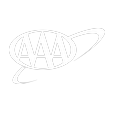
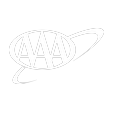
Seamless Figma fade (bg + footer = #F2E4E4), Figma content (no membership barcode, no MOCK), light/dark switch

diff --git a/index.html b/index.html
@@ -1,6 +1,7 @@
 <!doctype html>
 <html lang="en">
 <head>
+<script src="theme.js"></script>
 <script src="gate.js"></script>
 <meta charset="utf-8">
 <meta name="viewport" content="width=device-width,initial-scale=1">
@@ -282,6 +283,67 @@ button,select{font:inherit;color:inherit}
   .inspector{position:fixed;left:16px;right:16px;top:16px;width:auto;max-height:calc(100vh - 32px)}
   .col,.card3d{width:min(300px,calc(100vw - 32px))}
 }
+
+/* LIGHT THEME (generated by gen_light_theme.py) */
+html[data-theme="light"]{color-scheme:light}
+html[data-theme="light"]{--win:#f2f2f7;--side:#ffffff;--side-sel:#0a5fd6;--panel:#ffffff;--panel-2:#f2f2f7;--line:#d1d1d6;--text:#1c1c1e;--muted:#6e6e73;--dim:#8e8e93}
+html[data-theme="light"] .titlebar{border-bottom:1px solid #f2f2f2;background:#f3f3f3}
+html[data-theme="light"] .seg{background:#efefef}
+html[data-theme="light"] .seg button.on{background:#ffffff;color:#000000}
+html[data-theme="light"] .tb-btn{background:#f7f7f7}
+html[data-theme="light"] .platform{background:#efefef}
+html[data-theme="light"] .platform a.on{background:#ffffff;color:#000000}
+html[data-theme="light"] .ro{color:#eeeeee}
+html[data-theme="light"] .sidebar{border-right:1px solid #f2f2f2}
+html[data-theme="light"] .lim-pick{background:#f3f3f3}
+html[data-theme="light"] .lim-pick select{background:#f7f7f7}
+html[data-theme="light"] .item:hover{background:#f9f9f9}
+html[data-theme="light"] .item.sel .ic{color:#000000}
+html[data-theme="light"] .item.leaf{color:#292929}
+html[data-theme="light"] .badge{background:#fdfdfd;color:#2d2d2d}
+html[data-theme="light"] .badge.na{background:#fdfdfd}
+html[data-theme="light"] .picker{background:#eeeeee}
+html[data-theme="light"] .picker button:hover{background:#f4f4f4}
+html[data-theme="light"] .picker .thumb{background:#ffffff center top/cover;box-shadow:0 2px 6px rgba(0,0,0,0.14)}
+html[data-theme="light"] .picker .thumb.blank{background:#fafafa}
+html[data-theme="light"] .tab-x{background:#f7f7f7}
+html[data-theme="light"] .tab-x:hover{color:#000000;background:#ffffff}
+html[data-theme="light"] .dl{color:#000000}
+html[data-theme="light"] .pill{background:#fdfdfd}
+html[data-theme="light"] .act{background:#f6f6f6}
+html[data-theme="light"] .act.link:hover{background:#fcfcfc}
+html[data-theme="light"] .act.empty{border:1px dashed #c6c6c6}
+html[data-theme="light"] .inspector{background:rgba(0,0,0,0.339);border:1px solid #c9c9c9;box-shadow:0 18px 50px rgba(0,0,0,0.233)}
+html[data-theme="light"] .x{background:#ffffff}
+html[data-theme="light"] .kv .val{background:#f3f3f3;color:#242424}
+html[data-theme="light"] .sw{border:1px solid rgba(0,0,0,0.16)}
+html[data-theme="light"] .note{color:#2d2d2d;background:#f4f4f4}
+html[data-theme="light"] .fieldcard{background:#f5f5f5}
+html[data-theme="light"] .atile{background:#f4f4f4}
+html[data-theme="light"] .atile.pick{outline:2px solid rgba(0,0,0,0.24)}
+html[data-theme="light"] .atile .tag{color:#000000}
+html[data-theme="light"] .dd{background:#f3f3f3}
+html[data-theme="light"] .json{background:#ededed}
+html[data-theme="light"] .thumbs img{background:repeating-conic-gradient(#fdfdfd 0 25%,#f6f6f6 0 50%) 0/10px 10px}
+html[data-theme="light"] .proposal{background:#f0f0f0}
+html[data-theme="light"] .proposal-open{color:#000000}
+html[data-theme="light"] .proposal-img img{border:1px solid #dcdcdc}
+html[data-theme="light"] .todo{background:#f0f0f0}
+html[data-theme="light"] .todo h3{color:#000000}
+html[data-theme="light"] .todo p,html[data-theme="light"] .todo li{color:#2d2d2d}
+html[data-theme="light"] .todo .qa b{color:#000000}
+html[data-theme="light"] .todo .qa span{color:#2d2d2d}
+html[data-theme="light"] .proposal figcaption a,html[data-theme="light"] .proposal figcaption button{color:#000000;background:#f7f7f7}
+html[data-theme="light"] #rotateBtn{background:#f7f7f7;color:#000000}
+html[data-theme="light"] #rotateBtn:hover{background:#fcfcfc}
+html[data-theme="light"] .exp-sw{color:#000000}
+html[data-theme="light"] .exp-sw .track{background:#fdfdfd}
+html[data-theme="light"] .exp-sw .track::after{background:#ffffff}
+html[data-theme="light"] #simOpen{color:#000000}
+html[data-theme="light"] .dt-bar{background:#e4e4e4}
+@media (max-width:860px){html[data-theme="light"] .sidebar{border-top:1px solid #f2f2f2}}
+html[data-theme="light"] .picker button.on,html[data-theme="light"] .vmode button.on{background:#e7f0ff;color:#0a3d91}html[data-theme="light"] .picker button.on small{color:#3d5f99}html[data-theme="light"] .exp-sw .track{background:#d1d1d6}
+/* END LIGHT THEME */
 </style>
 </head>
 <body>

diff --git a/theme.js b/theme.js
@@ -1,0 +1,45 @@
+/* Light / dark switch. Follows the system color scheme until the viewer flips the switch;
+   that choice is remembered on this device. Loaded in <head> so the page never flashes the wrong theme. */
+(function(){
+  var KEY = 'aaaViewerTheme', root = document.documentElement, mq = window.matchMedia('(prefers-color-scheme: light)');
+  function saved(){ try { return localStorage.getItem(KEY); } catch(e){ return null; } }
+  function current(){ return saved() || (mq.matches ? 'light' : 'dark'); }
+  var SUN = '<svg viewBox="0 0 24 24" width="15" height="15" aria-hidden="true"><circle cx="12" cy="12" r="4.2" fill="currentColor"/><g stroke="currentColor" stroke-width="2" stroke-linecap="round"><path d="M12 2.5v2.2M12 19.3v2.2M2.5 12h2.2M19.3 12h2.2M5.3 5.3l1.6 1.6M17.1 17.1l1.6 1.6M5.3 18.7l1.6-1.6M17.1 6.9l1.6-1.6"/></g></svg>';
+  var MOON = '<svg viewBox="0 0 24 24" width="15" height="15" aria-hidden="true"><path d="M20.5 14.6A8.5 8.5 0 0 1 9.4 3.5a8.5 8.5 0 1 0 11.1 11.1z" fill="currentColor"/></svg>';
+  function apply(){
+    var t = current(); root.setAttribute('data-theme', t);
+    var b = document.getElementById('themeSw'); if(!b) return;
+    b.setAttribute('aria-checked', String(t === 'dark'));
+    b.setAttribute('aria-label', t === 'dark' ? 'Dark mode on. Switch to light mode' : 'Light mode on. Switch to dark mode');
+    b.title = (saved() ? 'Your choice' : 'Following your system') + ' · click to switch';
+    b.querySelector('.ts-label').textContent = t === 'dark' ? 'Dark' : 'Light';
+  }
+  apply();
+  if(mq.addEventListener) mq.addEventListener('change', function(){ if(!saved()) apply(); });
+  function mount(){
+    var css = document.createElement('style');
+    css.textContent = '#themeSw{position:fixed;right:16px;bottom:16px;z-index:90;display:flex;align-items:center;gap:8px;padding:5px 12px 5px 5px;border-radius:999px;border:1px solid rgba(127,127,127,.35);background:rgba(40,41,46,.82);color:#f2f2f7;font:600 12.5px -apple-system,BlinkMacSystemFont,"SF Pro Text",sans-serif;cursor:pointer;box-shadow:0 6px 20px rgba(0,0,0,.25);-webkit-backdrop-filter:blur(16px);backdrop-filter:blur(16px)}'
+      + '#themeSw .ts-track{position:relative;width:46px;height:26px;border-radius:13px;background:#3a3b40;transition:background .2s}'
+      + '#themeSw .ts-knob{position:absolute;top:3px;left:3px;width:20px;height:20px;border-radius:50%;background:#fff;color:#f5a623;display:grid;place-items:center;transition:transform .2s,color .2s;box-shadow:0 1px 3px rgba(0,0,0,.3)}'
+      + 'html[data-theme="dark"] #themeSw .ts-knob{transform:translateX(20px);color:#3b4a6b}'
+      + 'html[data-theme="dark"] #themeSw .ts-track{background:#0a84ff}'
+      + 'html[data-theme="light"] #themeSw{background:rgba(255,255,255,.85);color:#1c1c1e;box-shadow:0 6px 20px rgba(0,0,0,.12)}'
+      + 'html[data-theme="light"] #themeSw .ts-track{background:#d1d1d6}'
+      + '#themeSw:focus-visible{outline:2px solid #0a84ff;outline-offset:2px}'
+      + '@media (max-width:600px){#themeSw{right:12px;bottom:12px}}';
+    document.head.appendChild(css);
+    var b = document.createElement('button');
+    b.id = 'themeSw'; b.type = 'button'; b.setAttribute('role', 'switch');
+    b.innerHTML = '<span class="ts-track"><span class="ts-knob"></span></span><span class="ts-label"></span>';
+    b.addEventListener('click', function(){
+      var next = current() === 'dark' ? 'light' : 'dark', system = mq.matches ? 'light' : 'dark';
+      try { if(next === system) localStorage.removeItem(KEY); else localStorage.setItem(KEY, next); } catch(e){}
+      apply(); paintIcon();
+    });
+    document.body.appendChild(b);
+    function paintIcon(){ b.querySelector('.ts-knob').innerHTML = current() === 'dark' ? MOON : SUN; }
+    if(mq.addEventListener) mq.addEventListener('change', paintIcon);
+    apply(); paintIcon();
+  }
+  if(document.body) mount(); else document.addEventListener('DOMContentLoaded', mount);
+})();

diff --git a/google.html b/google.html
@@ -1,6 +1,7 @@
 <!doctype html>
 <html lang="en">
 <head>
+<script src="theme.js"></script>
 <script src="gate.js"></script>
 <meta charset="utf-8">
 <meta name="viewport" content="width=device-width,initial-scale=1">
@@ -163,6 +164,48 @@ details summary{cursor:pointer;font-size:13px;color:#6cb2ff;margin-top:6px}
   pre{max-width:100%;overflow-x:auto}
   .dl{flex:1 1 100%;justify-content:center}
 }
+
+/* LIGHT THEME (generated by gen_light_theme.py) */
+html[data-theme="light"]{color-scheme:light}
+html[data-theme="light"]{--win:#f2f2f7;--side:#ffffff;--line:#d1d1d6;--text:#1c1c1e;--muted:#6e6e73;--dim:#8e8e93}
+html[data-theme="light"] .titlebar{border-bottom:1px solid #f2f2f2;background:#f3f3f3}
+html[data-theme="light"] .ro{color:#eeeeee}
+html[data-theme="light"] .platform{background:#efefef}
+html[data-theme="light"] .platform a.on{background:#ffffff;color:#000000}
+html[data-theme="light"] .tb-btn{background:#f7f7f7}
+html[data-theme="light"] .sidebar{border-right:1px solid #f2f2f2}
+html[data-theme="light"] .lim li:hover{background:#f9f9f9}
+html[data-theme="light"] .badge{background:#fdfdfd;color:#2d2d2d}
+html[data-theme="light"] .picker{background:#eeeeee}
+html[data-theme="light"] .picker button:hover{background:#f4f4f4}
+html[data-theme="light"] .picker .thumb{background:#ffffff center/cover}
+html[data-theme="light"] .dl{color:#000000}
+html[data-theme="light"] .colh{background:#fdfdfd}
+html[data-theme="light"] .vmode button{background:#f4f4f4}
+html[data-theme="light"] .shots img{background:#e4e4e4}
+html[data-theme="light"] .parts figcaption{color:#2d2d2d}
+html[data-theme="light"] .dlist{background:#f7f7f7}
+html[data-theme="light"] .ditem{border-bottom:1px solid #cfcfcf}
+html[data-theme="light"] .ditem .l{color:#5f5f5f}
+html[data-theme="light"] .ditem .v{color:#151515}
+html[data-theme="light"] .dlink{border-bottom:1px solid #cfcfcf}
+html[data-theme="light"] .panel{background:#f3f3f3}
+html[data-theme="light"] .panel p{color:#2d2d2d}
+html[data-theme="light"] .cmp td:first-child{color:#000000}
+html[data-theme="light"] pre{background:#ededed}
+html[data-theme="light"] .tree .tg{color:#2d2d2d}
+html[data-theme="light"] .node{color:#181818}
+html[data-theme="light"] .node:hover{background:#f9f9f9}
+html[data-theme="light"] .inspector{background:rgba(0,0,0,0.339);border:1px solid #c9c9c9;box-shadow:0 18px 50px rgba(0,0,0,0.233)}
+html[data-theme="light"] .x{background:#ffffff;color:#000000}
+html[data-theme="light"] .ins-sec p{color:#212121}
+html[data-theme="light"] .ipath{background:#ededed}
+html[data-theme="light"] .sw{border:1px solid rgba(0,0,0,0.2)}
+html[data-theme="light"] .iimg{background:#ffffff}
+html[data-theme="light"] .iopen{color:#000000}
+@media (max-width:900px){html[data-theme="light"] .sidebar{border-top:1px solid #f2f2f2}}
+html[data-theme="light"] .picker button.on,html[data-theme="light"] .vmode button.on{background:#e7f0ff;color:#0a3d91}html[data-theme="light"] .picker button.on small{color:#3d5f99}html[data-theme="light"] .exp-sw .track{background:#d1d1d6}
+/* END LIGHT THEME */
 </style>
 </head>
 <body>
